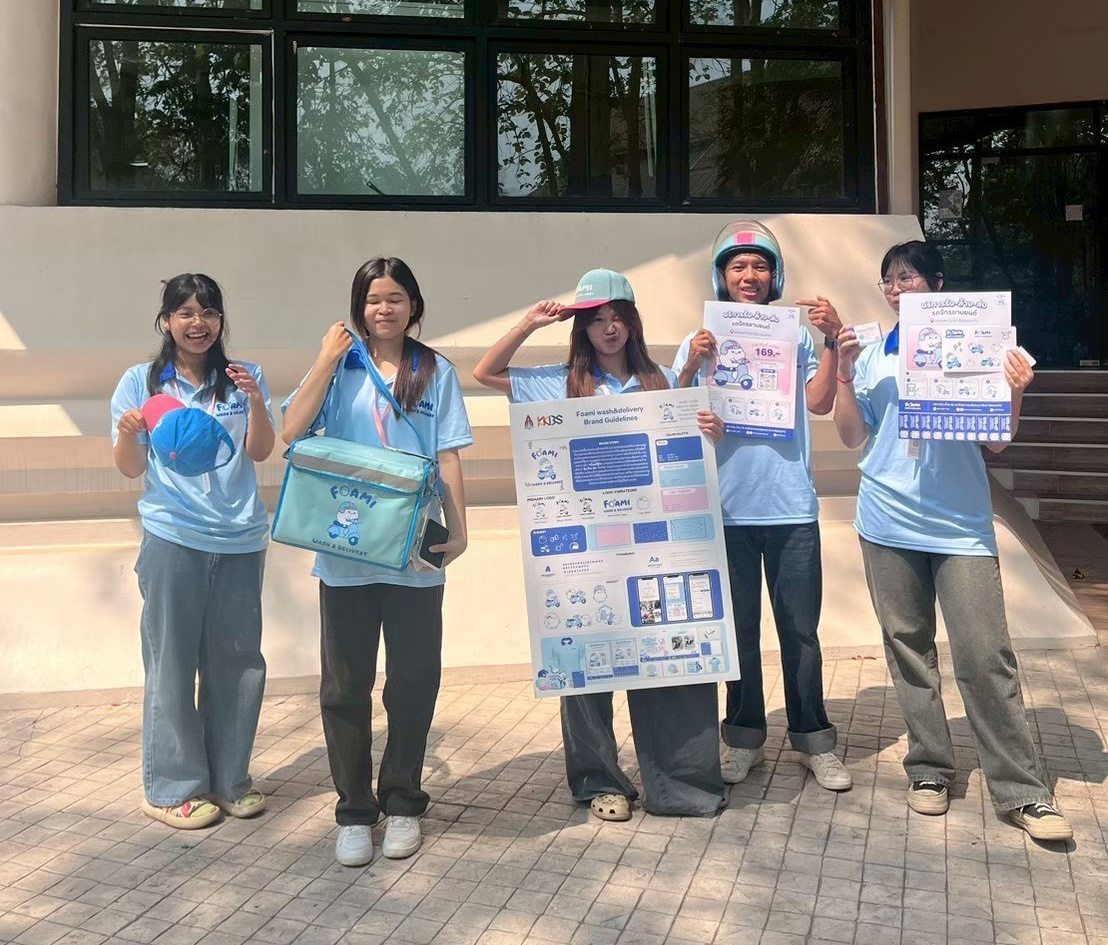
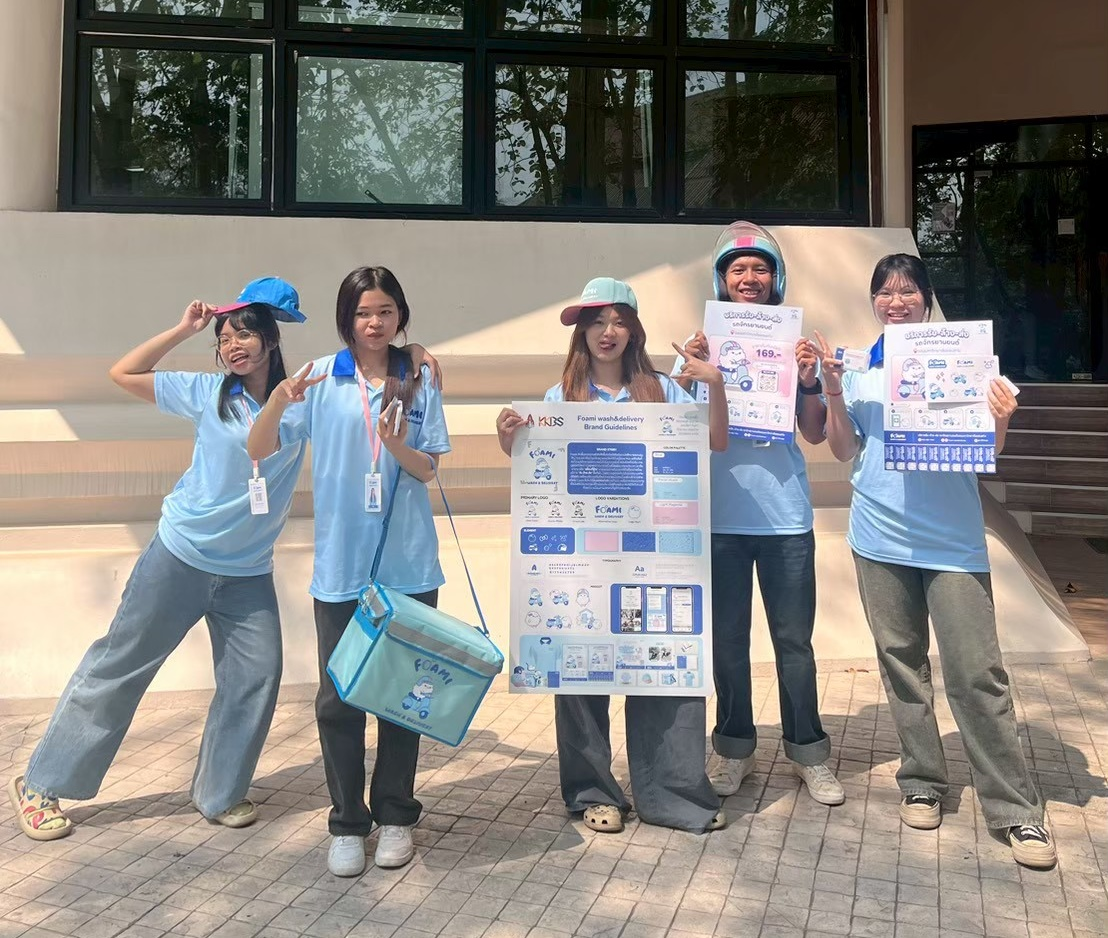
feat(landing): replace hero image with iPhone 14 Pro mockup and update team photo with cropped new LINE photo

diff --git a/app/page.tsx b/app/page.tsx
@@ -347,31 +347,39 @@ export default function LandingPage() {
             </div>
           </div>
 
-          {/* Right Column: Hero Visual */}
-          <div style={{ position: 'relative' }}>
+          {/* Right Column: Hero Visual - Foami App Mockup */}
+          <div style={{ position: 'relative', display: 'flex', justifyContent: 'center' }}>
             <div style={{
-              background: C.surface,
-              borderRadius: 20,
-              padding: 12,
+              background: 'linear-gradient(180deg, #FFFFFF 0%, #F0F6FD 100%)',
+              borderRadius: 24,
+              padding: '24px 20px 18px',
               border: `2px solid ${C.subordinate}`,
-              boxShadow: '0 12px 32px rgba(49, 94, 195, 0.12)',
+              boxShadow: '0 16px 36px rgba(49, 94, 195, 0.12)',
               position: 'relative',
-              overflow: 'hidden'
+              overflow: 'hidden',
+              width: '100%',
+              maxWidth: 480,
+              display: 'flex',
+              flexDirection: 'column',
+              alignItems: 'center'
             }}>
               <img
-                src="/landing-hero.jpg"
-                alt="บริการดูแลและล้างยานยนต์มาตรฐาน Foami"
+                src="/landing-hero.png"
+                alt="ระบบแอปพลิเคชัน Foami Wash & Delivery บนสมาร์ทโฟน"
                 style={{
                   width: '100%',
+                  maxWidth: 400,
                   height: 'auto',
-                  borderRadius: 14,
                   display: 'block',
-                  objectFit: 'cover',
-                  maxHeight: 380
+                  objectFit: 'contain',
+                  filter: 'drop-shadow(0 14px 28px rgba(49, 94, 195, 0.16))'
                 }}
               />
               <div style={{
-                padding: '14px 12px 6px',
+                width: '100%',
+                paddingTop: 16,
+                borderTop: `1px solid ${C.border}`,
+                marginTop: 14,
                 display: 'flex',
                 alignItems: 'center',
                 justifyContent: 'space-between',
@@ -379,14 +387,14 @@ export default function LandingPage() {
               }}>
                 <div>
                   <div style={{ fontSize: 14, fontWeight: 700, color: C.textPrimary }}>
-                    Foami Care & Detailing Service
+                    Foami Web Application
                   </div>
-                  <div style={{ fontSize: 12, color: C.textSecondary }}>
-                    บริการดูแลรักษาสภาพยานยนต์โดยช่างผู้ชำนาญการ
+                  <div style={{ fontSize: 12, color: C.textSecondary, marginTop: 2 }}>
+                    จองง่ายผ่านสมาร์ทโฟน ไม่ต้องดาวน์โหลดแอปพลิเคชัน
                   </div>
                 </div>
                 <div style={{
-                  padding: '4px 10px',
+                  padding: '4px 12px',
                   borderRadius: 20,
                   background: C.subordinateLight,
                   border: `1px solid ${C.subordinate}`,
@@ -398,8 +406,8 @@ export default function LandingPage() {
                   alignItems: 'center',
                   gap: 4
                 }}>
-                  <Award size={13} />
-                  <span>Verified Standard</span>
+                  <Sparkles size={13} />
+                  <span>Mobile First</span>
                 </div>
               </div>
             </div>
